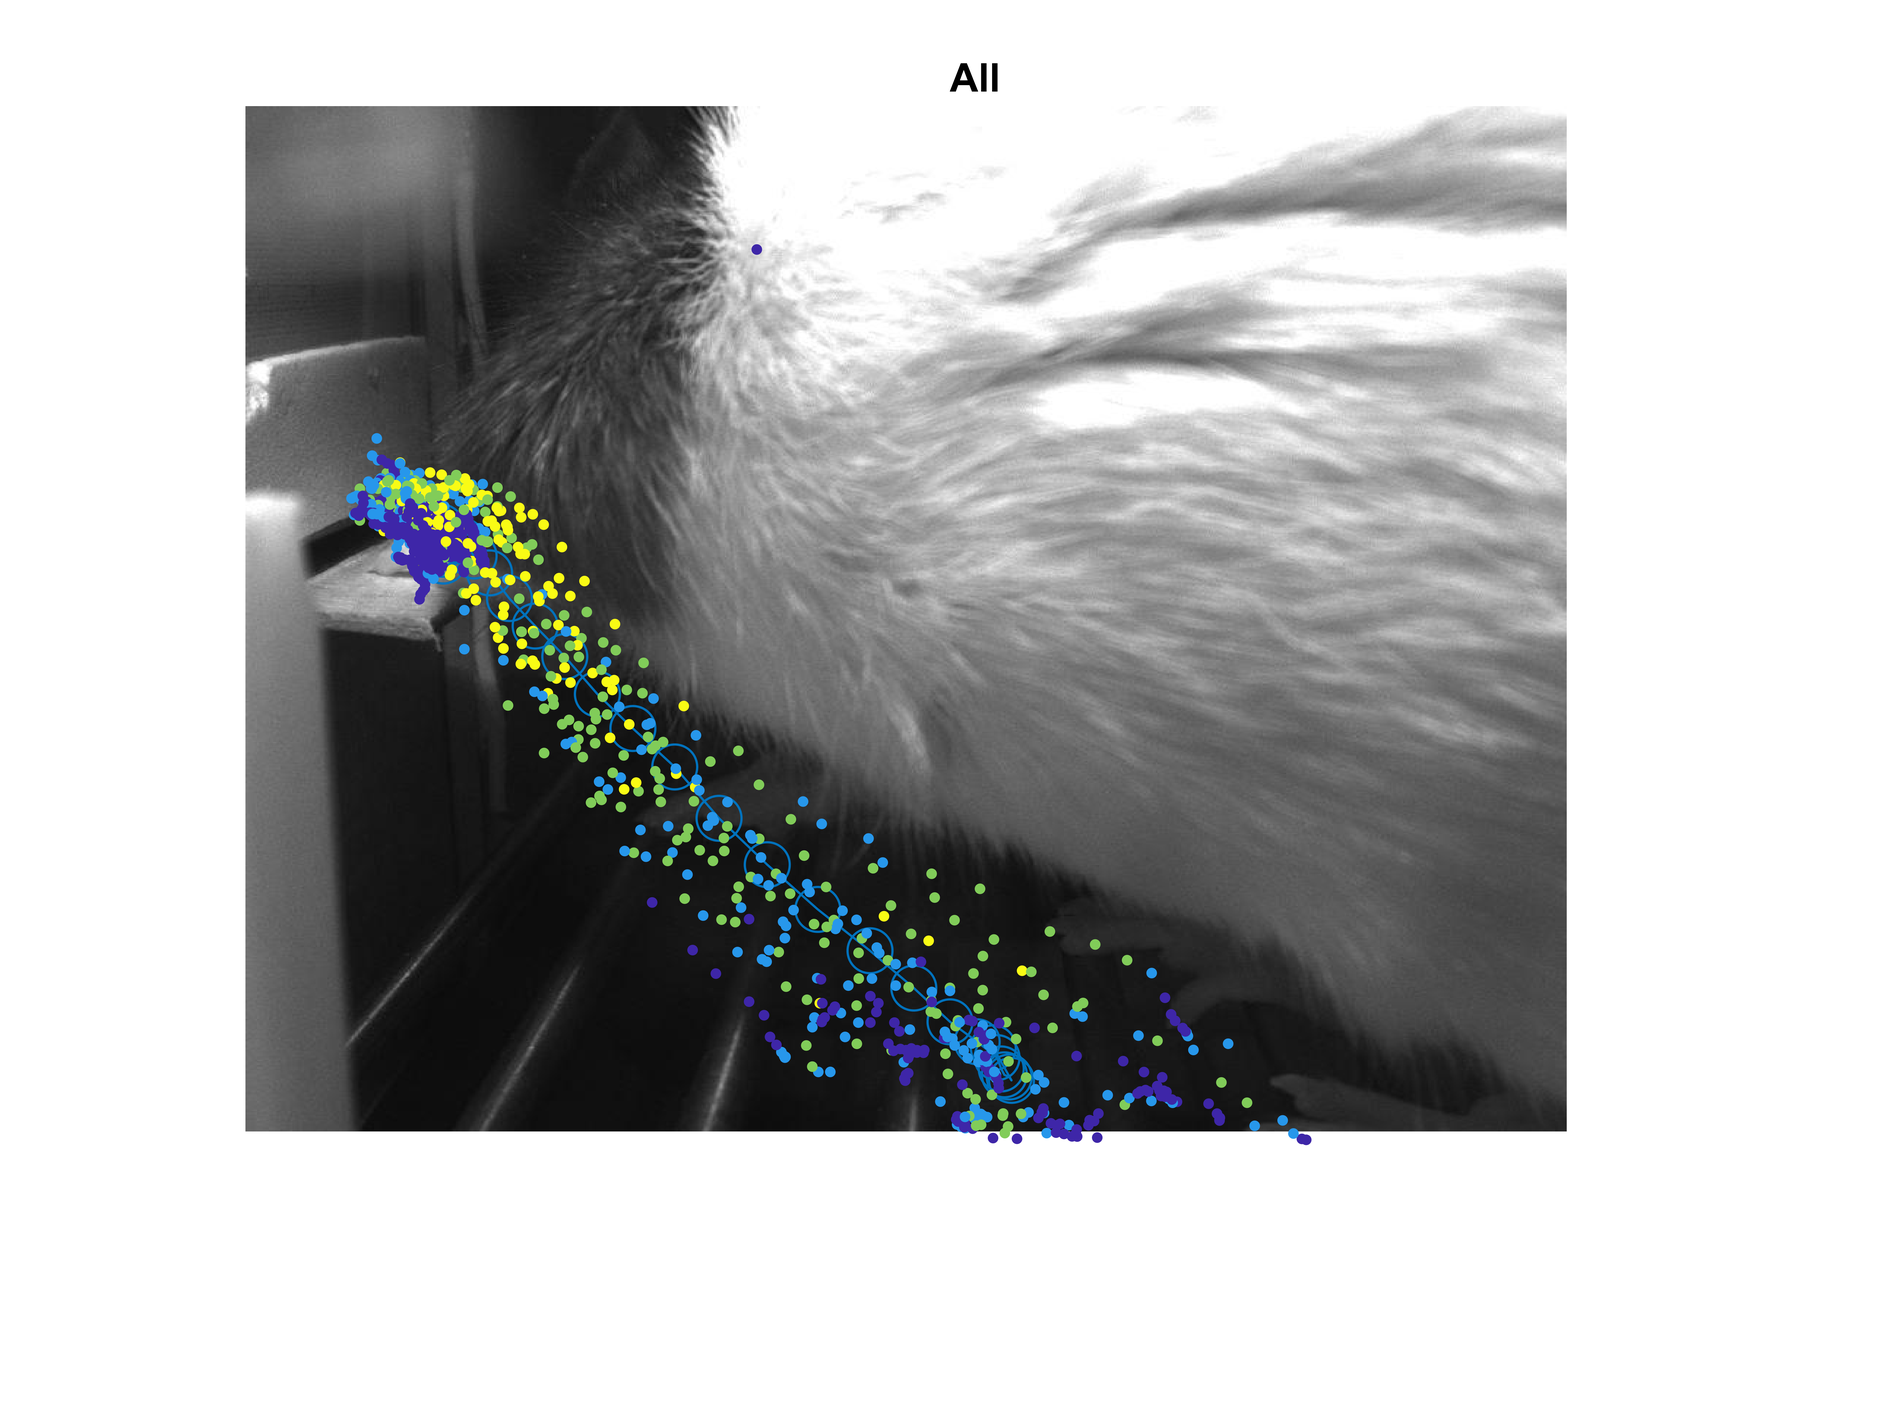
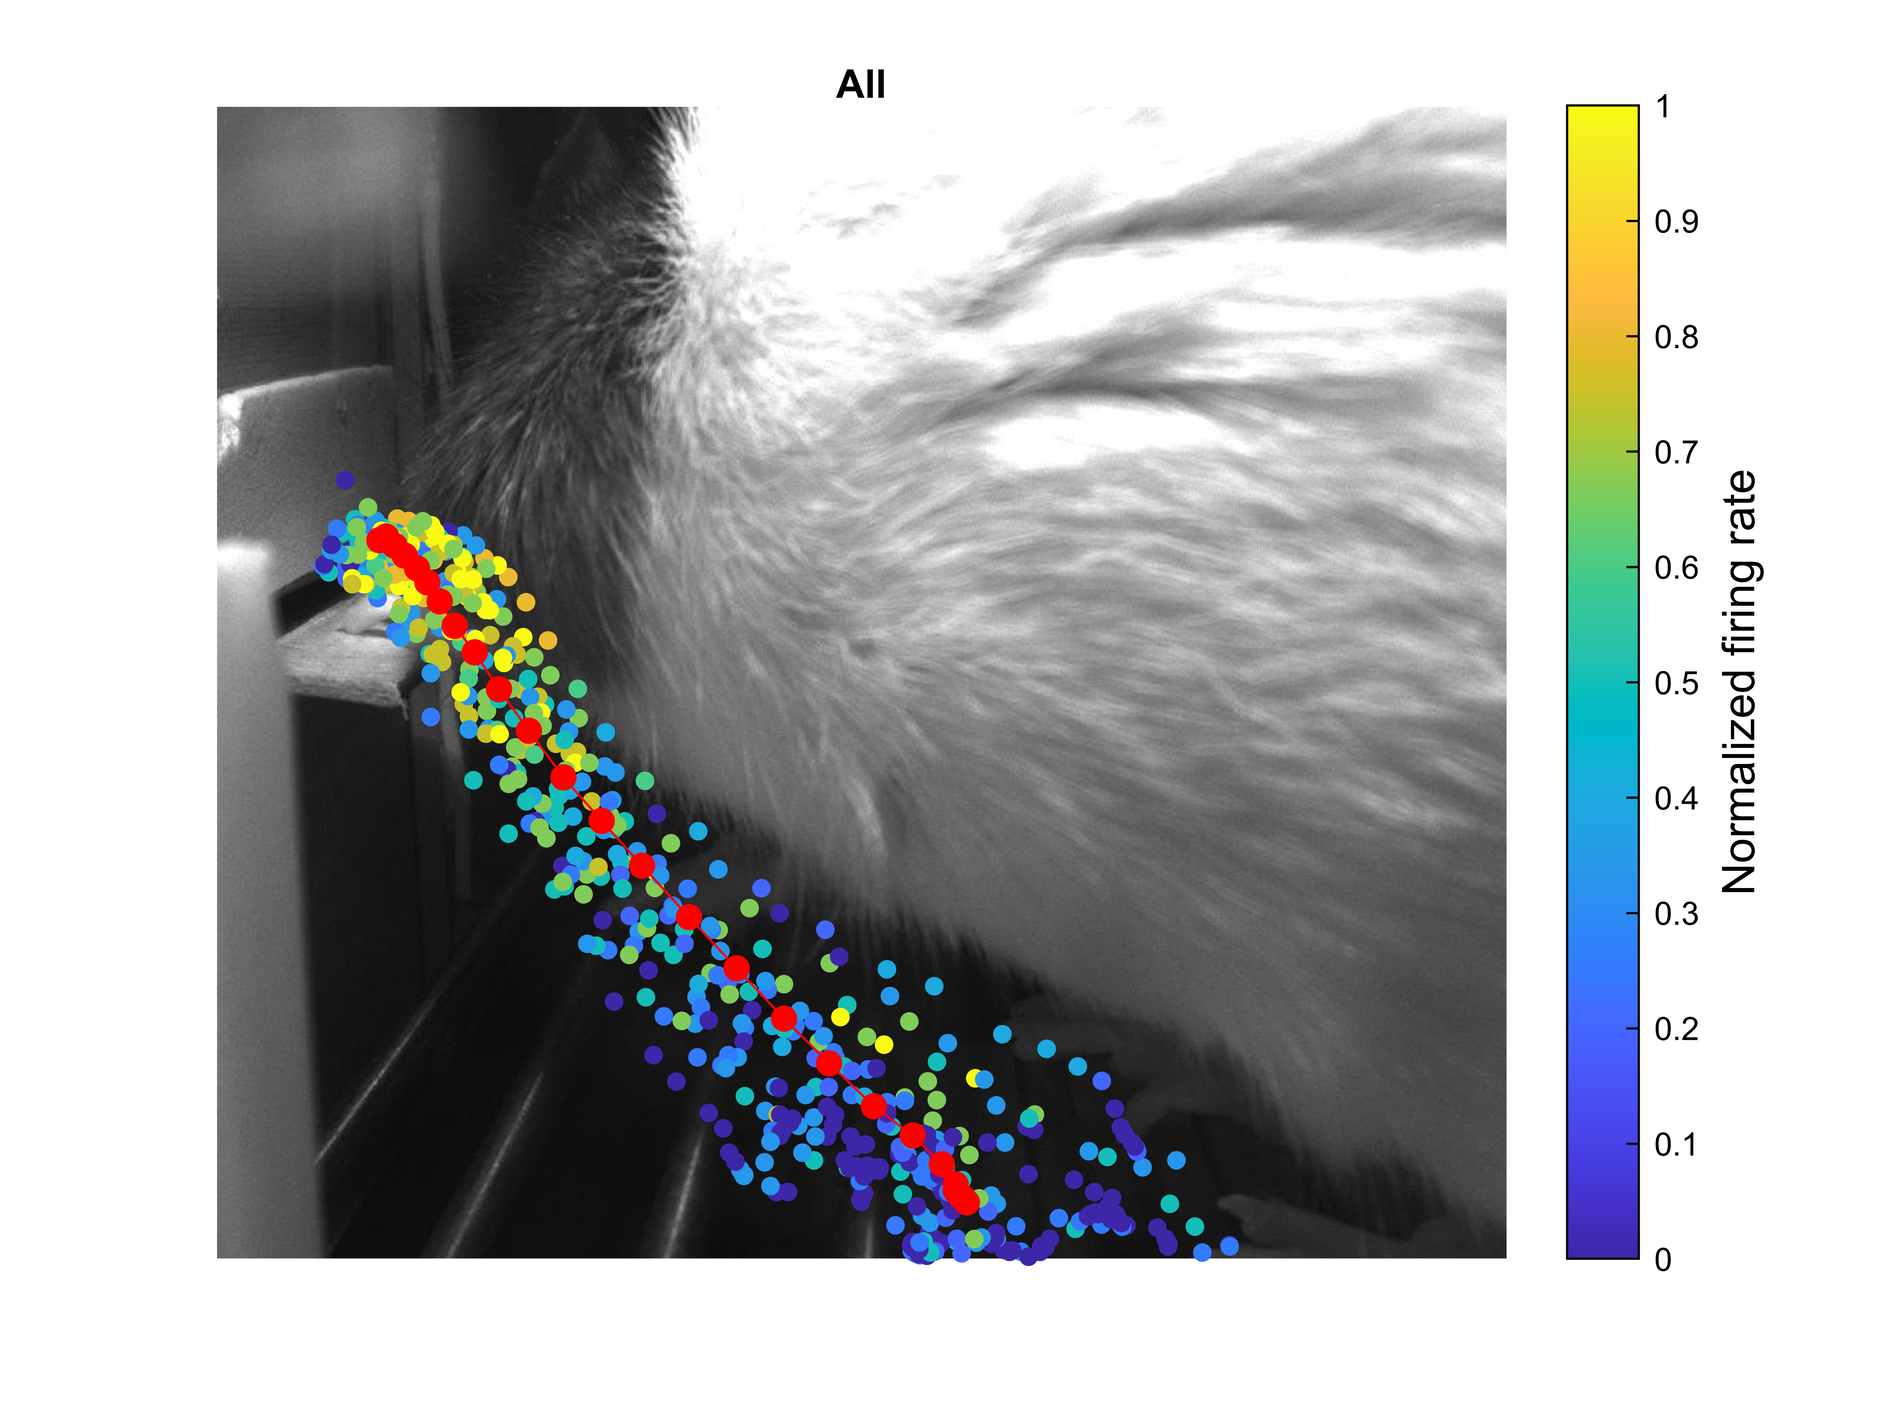
2022.6.14

diff --git a/CodesHY/Scripts/fig/TrajectoryCell/testTrajectoryCell.m b/CodesHY/Scripts/fig/TrajectoryCell/testTrajectoryCell.m
@@ -1,36 +1,29 @@
 %% Meta Info
-% r_path = 'D:\Ephys\ANMs\Urey\Videos\20211124_video\RTarrayAll.mat';
-r_path = 'D:\Ephys\ANMs\Russo\Sessions\20210820_video\RTarrayAll.mat';
-% load(r_path)
-
-% save_filename_bmp = './fig.bmp';
-save_filename_pdf = './GestureAnalysis.pdf';
-save_filename_png = './GestureAnalysis.png';
-save_filename_eps = 'C:\Users\jiumao\Desktop\figuresHY\GestureAnalysis.eps';
+r_path = 'D:\Ephys\ANMs\Urey\Videos\20211124_video\RTarrayAll.mat';
+% r_path = 'D:\Ephys\ANMs\Russo\Sessions\20210820_video\RTarrayAll.mat';
+load(r_path)
 save_resolution = 1200;
 
-% vid_top = VideoReader('D:\Ephys\ANMs\Urey\Videos\20211124_video\VideoFrames_top\RawVideo\Press007.avi');
-% bg_top = vid_top.read(-r.VideoInfos_top(1).t_pre/10);
-% vid_side = VideoReader('D:\Ephys\ANMs\Urey\Videos\20211124_video\VideoFrames_side\RawVideo\Press056.avi');
-% bg_side_traj1 = vid_side.read(-r.VideoInfos_top(1).t_pre/10);
-% vid_side = VideoReader('D:\Ephys\ANMs\Urey\Videos\20211124_video\VideoFrames_side\RawVideo\Press055.avi');
-% bg_side_traj2 = vid_side.read(-r.VideoInfos_top(1).t_pre/10);
-vid_side = VideoReader('D:\Ephys\ANMs\Russo\Sessions\20210820_video\VideoFrames_side\RawVideo\Press056.avi');
+vid_side = VideoReader('D:\Ephys\ANMs\Urey\Videos\20211124_video\VideoFrames_side\RawVideo\Press056.avi');
 bg_side_traj1 = vid_side.read(-r.VideoInfos_top(1).t_pre/10);
-vid_side = VideoReader('D:\Ephys\ANMs\Russo\Sessions\20210820_video\VideoFrames_side\RawVideo\Press055.avi');
+vid_side = VideoReader('D:\Ephys\ANMs\Urey\Videos\20211124_video\VideoFrames_side\RawVideo\Press055.avi');
 bg_side_traj2 = vid_side.read(-r.VideoInfos_top(1).t_pre/10);
+% vid_side = VideoReader('D:\Ephys\ANMs\Russo\Sessions\20210820_video\VideoFrames_side\RawVideo\Press056.avi');
+% bg_side_traj1 = vid_side.read(-r.VideoInfos_top(1).t_pre/10);
+% vid_side = VideoReader('D:\Ephys\ANMs\Russo\Sessions\20210820_video\VideoFrames_side\RawVideo\Press055.avi');
+% bg_side_traj2 = vid_side.read(-r.VideoInfos_top(1).t_pre/10);
 
 bodypart = 'left_paw';
 idx_bodypart = find(strcmp(r.VideoInfos_side(1).Tracking.BodyParts,bodypart));
 
-unit_num = 3;
+unit_num = 1;
 binwidth = 50;
 
 marker_size = 200;
 colors_num = 256;
 colors = parula(256);
 
-color_max_percentage = 0.95;
+color_max_percentage = 1.00;
 color_min_percentage = 0.00;
 %%
 h0 = figure('Renderer','opengl');
@@ -38,7 +31,8 @@ ax0 = axes(h0,'NextPlot','add');
 image(ax0,bg_side_traj2);
 set(ax0,'YDir','reverse','XLim',[0,size(bg_side_traj2,2)],'YLim',[0,size(bg_side_traj2,1)])
 title(ax0,'All');
-colorbar();
+c0 = colorbar();
+ylabel(c0,'Normalized firing rate','FontSize',10);
 ax0.XAxis.Visible = 'off';ax0.YAxis.Visible = 'off';
 
 % h1 = figure;
@@ -56,7 +50,7 @@ ax0.XAxis.Visible = 'off';ax0.YAxis.Visible = 'off';
 % title(ax2,'Low');
 
 idx_all = [r.VideoInfos_side.Index];
-press_idx = getIndexVideoInfos(r,'Hand','Left','LiftStartTimeLabeled','On');
+press_idx = getIndexVideoInfos(r,'Hand','Left','LiftStartTimeLabeled','On','Trajectory',2);
 vid_press_idx = findSeq(idx_all,press_idx);
 
 firing_rate_all_flattened = [];
@@ -81,7 +75,6 @@ for k = 1:length(vid_press_idx)
 end
 
 mean_traj = getMeanTrajectory(traj_all, round(mean(frame_num_all)));
-plot(ax0,mean_traj(1,:),mean_traj(2,:),'o-','MarkerSize',10)
 
 firing_rate_all_flattened = sort(firing_rate_all_flattened);
 firing_rate_max = firing_rate_all_flattened(floor(length(firing_rate_all_flattened)*color_max_percentage));
@@ -116,22 +109,32 @@ for k = 1:length(vid_press_idx)
 %     end
     
 end
-
+plot(ax0,mean_traj(1,:),mean_traj(2,:),'r.-','MarkerSize',20)
 %% Hypothesis 1: fire at a fixed duration from lift (same information as PETH)
 h_h1 = figure('Renderer','opengl');
-% ax_h1 = axes(h_h1);
-% params.pre = 500;
-% params.post = 2000;
-% params.binwidth = binwidth;
-% [psth, tpsth] = jpsth(r.Units.SpikeTimes(unit_num).timings,[r.VideoInfos_side(vid_press_idx).LiftStartTime]',params);
-% plot(ax_h1,tpsth,psth,'-')
+ax_h1 = axes(h_h1,'NextPlot','add','XLim',[0,size(bg_side_traj2,2)],'YLim',[0,size(bg_side_traj2,1)]);
+title(ax_h1,'PETH')
+image(ax_h1,bg_side_traj2);
+set(ax_h1,'YDir','reverse')
+ax_h1.XAxis.Visible = 'off';ax_h1.YAxis.Visible = 'off';
+c_h1 = colorbar(ax_h1);
+ylabel(c_h1,'Normalized firing rate','FontSize',10);
 
-ax_h1_2 = axes(h_h1,'NextPlot','add','XLim',[0,size(bg_side_traj2,2)],'YLim',[0,size(bg_side_traj2,1)]);
-title(ax_h1_2,'PETH')
-image(ax_h1_2,bg_side_traj2);
-set(ax_h1_2,'YDir','reverse')
-ax_h1_2.XAxis.Visible = 'off';ax_h1_2.YAxis.Visible = 'off';
-colorbar(ax_h1_2);
+for k = 1:length(vid_press_idx)
+    frame_num_temp = r.VideoInfos_side(vid_press_idx(k)).LiftStartFrameNum:round(-r.VideoInfos_side(vid_press_idx(k)).t_pre/10);
+    [~, i_maxy] = min(r.VideoInfos_side(vid_press_idx(k)).Tracking.Coordinates_y{idx_bodypart}(frame_num_temp));
+    frame_num = frame_num_temp(1:i_maxy);
+    
+    times_this = r.VideoInfos_side(vid_press_idx(k)).VideoFrameTime(frame_num);
+    firing_rate_this = getFiringRate(r.Units.SpikeTimes(unit_num).timings,times_this,binwidth);
+    firing_rate_this = (firing_rate_this-firing_rate_min)./(firing_rate_max-firing_rate_min);
+    firing_rate_this(firing_rate_this>1)=1;firing_rate_this(firing_rate_this<0)=0;
+    colors_this = colors(round(firing_rate_this*(colors_num-1)+1),:);
+    scatter(ax_h1,r.VideoInfos_side(vid_press_idx(k)).Tracking.Coordinates_x{idx_bodypart}(frame_num(firing_rate_this>firing_rate_threshold)),...
+        r.VideoInfos_side(vid_press_idx(k)).Tracking.Coordinates_y{idx_bodypart}(frame_num(firing_rate_this>firing_rate_threshold)),...
+        marker_size/2,...
+        colors_this(firing_rate_this>firing_rate_threshold,:),'.');   
+end
 
 firing_rate_all_mat = nan*zeros(length(firing_rate_all),round(mean(frame_num_all)));
 for k = 1:length(firing_rate_all)
@@ -143,7 +146,7 @@ for k = 1:length(firing_rate_all)
 end
 firing_rate_all_mat_mean = mean(firing_rate_all_mat,'omitnan');
 firing_rate_all_mat_mean = (firing_rate_all_mat_mean-firing_rate_min)./(firing_rate_max-firing_rate_min);
-scatter(ax_h1_2,mean_traj(1,:),mean_traj(2,:),500,colors(round(firing_rate_all_mat_mean*(colors_num-1)+1),:),'.');
+scatter(ax_h1,mean_traj(1,:),mean_traj(2,:),500,colors(round(firing_rate_all_mat_mean*(colors_num-1)+1),:),'.');
 
 disp(['Hypothesis 1: ',num2str(max(firing_rate_all_mat_mean))]);
 %% Hypothesis 2: fire at a certain position (heat map)
@@ -154,14 +157,16 @@ title(ax_h2,'Position')
 set(ax_h2,'YDir','reverse','XLim',[0,size(bg_side_traj2,2)],'YLim',[0,size(bg_side_traj2,1)])
 ax_h2.XAxis.Visible = 'off';ax_h2.YAxis.Visible = 'off';
 colorbar(ax_h2);
+c_h2 = colorbar(ax_h2);
+ylabel(c_h2,'Normalized firing rate','FontSize',10);
 
 gaussian_kernel = 25;
 
 h_h2_heatmap = figure('Renderer','opengl');
 ax_h2_heatmap = axes(h_h2_heatmap,'NextPlot','add');
-colorbar(ax_h2_heatmap);
 set(ax_h2_heatmap,'YDir','reverse')
 ax_h2_heatmap.XAxis.Visible = 'off';ax_h2_heatmap.YAxis.Visible = 'off';
+colorbar(ax_h2_heatmap,'Limits',[0,1]);
 x = 1:5:904;
 y = 1:5:800;
 [X,Y] = meshgrid(x,y);
@@ -171,15 +176,67 @@ for k = 1:length(x)
         z(k,j) = getGraphFiringRate(x(k),y(j),traj_all,firing_rate_all,gaussian_kernel);
     end
 end
+z = (z-firing_rate_min)./(firing_rate_max-firing_rate_min);
+z(z>1)=1;z(z<0)=0;
 imagesc(ax_h2_heatmap,z','XData',x,'YData',y);
+ax_h2_heatmap.CLim = [0,1];
+
+for k = 1:length(vid_press_idx)
+    frame_num_temp = r.VideoInfos_side(vid_press_idx(k)).LiftStartFrameNum:round(-r.VideoInfos_side(vid_press_idx(k)).t_pre/10);
+    [~, i_maxy] = min(r.VideoInfos_side(vid_press_idx(k)).Tracking.Coordinates_y{idx_bodypart}(frame_num_temp));
+    frame_num = frame_num_temp(1:i_maxy);
+    
+    times_this = r.VideoInfos_side(vid_press_idx(k)).VideoFrameTime(frame_num);
+    firing_rate_this = getFiringRate(r.Units.SpikeTimes(unit_num).timings,times_this,binwidth);
+    firing_rate_this = (firing_rate_this-firing_rate_min)./(firing_rate_max-firing_rate_min);
+    firing_rate_this(firing_rate_this>1)=1;firing_rate_this(firing_rate_this<0)=0;
+    colors_this = colors(round(firing_rate_this*(colors_num-1)+1),:);
+    scatter(ax_h2,r.VideoInfos_side(vid_press_idx(k)).Tracking.Coordinates_x{idx_bodypart}(frame_num(firing_rate_this>firing_rate_threshold)),...
+        r.VideoInfos_side(vid_press_idx(k)).Tracking.Coordinates_y{idx_bodypart}(frame_num(firing_rate_this>firing_rate_threshold)),...
+        marker_size/2,...
+        colors_this(firing_rate_this>firing_rate_threshold,:),'.');   
+end
 
 firing_rate_pos = zeros(1,round(mean(frame_num_all)));
+pos_length = zeros(1,round(mean(frame_num_all)));
+% for k = 1:round(mean(frame_num_all))
+%     firing_rate_pos(k) = getGraphFiringRate(mean_traj(1,k),mean_traj(2,k),traj_all,firing_rate_all,gaussian_kernel);
+% end
+
+firing_rate_pos_cell = cell(1,round(mean(frame_num_all)));
 for k = 1:round(mean(frame_num_all))
-    firing_rate_pos(k) = getGraphFiringRate(mean_traj(1,k),mean_traj(2,k),traj_all,firing_rate_all,gaussian_kernel);
+    firing_rate_pos_cell{k} = [];
 end
+for k = 1:length(traj_all)
+    for j = 1:length(traj_all{k})
+        [~,idx] = min(sum((mean_traj-traj_all{k}(:,j)).^2));
+        firing_rate_pos_cell{idx} = [firing_rate_pos_cell{idx},firing_rate_all{k}(j)];
+    end
+end
+for k = 1:round(mean(frame_num_all))
+    pos_length(k) = length(firing_rate_pos_cell{k});
+    if isempty(firing_rate_pos_cell{k})
+        firing_rate_pos(k) = firing_rate_pos(k-1);
+    else
+        firing_rate_pos(k) = mean(firing_rate_pos_cell{k});
+    end
+end
+
 firing_rate_pos = (firing_rate_pos-firing_rate_min)./(firing_rate_max-firing_rate_min);
 firing_rate_pos(firing_rate_pos>1)=1;firing_rate_pos(firing_rate_pos<0)=0;
-scatter(ax_h2,mean_traj(1,:),mean_traj(2,:),500,colors(round(firing_rate_pos*(colors_num-1)+1),:),'.');    
+scatter(ax_h2,mean_traj(1,:),mean_traj(2,:),500,colors(round(firing_rate_pos*(colors_num-1)+1),:),'.');   
+
+h_h2_2 = figure();
+ax_h2_2 = axes(h_h2_2,'NextPlot','add');
+yyaxis(ax_h2_2,'left');
+bar(ax_h2_2,pos_length);
+ylabel('Number of points')
+set(ax_h2_2,'ycolor','k');
+yyaxis(ax_h2_2,'right');
+plot(ax_h2_2,firing_rate_pos,'x-');
+ylabel('Normalized firing rate');
+set(ax_h2_2,'ycolor','k');
+
 disp(['Hypothesis 2: ',num2str(max(firing_rate_pos))]);
 
 % roi_pos = drawfreehand(ax_h2_heatmap);
@@ -211,36 +268,84 @@ disp(['Hypothesis 2: ',num2str(max(firing_rate_pos))]);
 h_h3 = figure('Renderer','opengl');
 ax_h3 = axes(h_h3,'NextPlot','add','XLim',[0,size(bg_side_traj2,2)],'YLim',[0,size(bg_side_traj2,1)]);
 colorbar(ax_h3);
+c_h3 = colorbar(ax_h3);
+ylabel(c_h3,'Normalized firing rate','FontSize',10);
 image(ax_h3,bg_side_traj2);
 title(ax_h3,'warped PETH')
 set(ax_h3,'YDir','reverse')
 ax_h3.XAxis.Visible = 'off';ax_h3.YAxis.Visible = 'off';
 
-% for k = 1:length(vid_press_idx)
-%     frame_num = r.VideoInfos_side(vid_press_idx(k)).LiftStartFrameNum:round(-r.VideoInfos_side(vid_press_idx(k)).t_pre/10);
-%     times_this = r.VideoInfos_side(vid_press_idx(k)).VideoFrameTime(frame_num);
-%     firing_rate_this = getFiringRate(r.Units.SpikeTimes(unit_num).timings,times_this,binwidth);
-%     firing_rate_this = (firing_rate_this-firing_rate_min)./(firing_rate_max-firing_rate_min);
-%     firing_rate_this(firing_rate_this>1)=1;firing_rate_this(firing_rate_this<0)=0;
-%     colors_this = colors(round(firing_rate_this*(colors_num-1)+1),:);
-%     scatter(ax_h3,r.VideoInfos_side(vid_press_idx(k)).Tracking.Coordinates_x{idx_bodypart}(frame_num),...
-%         r.VideoInfos_side(vid_press_idx(k)).Tracking.Coordinates_y{idx_bodypart}(frame_num),...
-%         marker_size,...
-%         colors_this,'.');
-% end
+for k = 1:length(vid_press_idx)
+    frame_num_temp = r.VideoInfos_side(vid_press_idx(k)).LiftStartFrameNum:round(-r.VideoInfos_side(vid_press_idx(k)).t_pre/10);
+    [~, i_maxy] = min(r.VideoInfos_side(vid_press_idx(k)).Tracking.Coordinates_y{idx_bodypart}(frame_num_temp));
+    frame_num = frame_num_temp(1:i_maxy);
+    
+    times_this = r.VideoInfos_side(vid_press_idx(k)).VideoFrameTime(frame_num);
+    firing_rate_this = getFiringRate(r.Units.SpikeTimes(unit_num).timings,times_this,binwidth);
+    firing_rate_this = (firing_rate_this-firing_rate_min)./(firing_rate_max-firing_rate_min);
+    firing_rate_this(firing_rate_this>1)=1;firing_rate_this(firing_rate_this<0)=0;
+    colors_this = colors(round(firing_rate_this*(colors_num-1)+1),:);
+    scatter(ax_h3,r.VideoInfos_side(vid_press_idx(k)).Tracking.Coordinates_x{idx_bodypart}(frame_num(firing_rate_this>firing_rate_threshold)),...
+        r.VideoInfos_side(vid_press_idx(k)).Tracking.Coordinates_y{idx_bodypart}(frame_num(firing_rate_this>firing_rate_threshold)),...
+        marker_size/2,...
+        colors_this(firing_rate_this>firing_rate_threshold,:),'.');   
+end
 
 [~, traj_all_resized, firing_rate_all_resized] = getMeanTrajectory(traj_all, round(mean(frame_num_all)), firing_rate_all);
 firing_rate_all_resized_mean = mean(firing_rate_all_resized,2);    
     
 firing_rate_all_resized_mean = (firing_rate_all_resized_mean-firing_rate_min)./(firing_rate_max-firing_rate_min);
+firing_rate_all_resized_mean(firing_rate_all_resized_mean>1)=1;firing_rate_all_resized_mean(firing_rate_all_resized_mean<0)=0;
 scatter(ax_h3,mean_traj(1,:),mean_traj(2,:),500,colors(round(firing_rate_all_resized_mean*(colors_num-1)+1),:),'.');    
 disp(['Hypothesis 3: ',num2str(max(firing_rate_all_resized_mean))]);
+%% Comparing
+[max_h1,idx_max_h1] = max(firing_rate_all_mat_mean);
+[max_h2,idx_max_h2] = max(firing_rate_pos);
+[max_h3,idx_max_h3] = max(firing_rate_all_resized_mean);
+max_h1_points = firing_rate_all_mat(:,idx_max_h1);
+max_h2_points = firing_rate_pos_cell{idx_max_h2};
+max_h3_points = firing_rate_all_resized(idx_max_h3,:);
+max_h1_points = (max_h1_points-firing_rate_min)./(firing_rate_max-firing_rate_min);
+max_h2_points = (max_h2_points-firing_rate_min)./(firing_rate_max-firing_rate_min);
+max_h3_points = (max_h3_points-firing_rate_min)./(firing_rate_max-firing_rate_min);
+
+h_h4 = figure('Renderer','opengl','Units','centimeters','Position',[10,10,18,5]);
+ax_h4_1 = axes(h_h4,'NextPlot','add','Units','centimeters','Position',[1,1,3,3]);
+bar([max_h1,max_h2,max_h3])
+title(ax_h4_1,'Max firing rate');
+ylim(ax_h4_1,[0,1]);
+ylabel(ax_h4_1,'Normalized firing rate')
+set(ax_h4_1,'XTick',[1,2,3],'XTickLabel',{'H1','H2','H3'})
+
+ax_h4_2 = axes(h_h4,'NextPlot','add','Units','centimeters','Position',[5,1,3,3]);
+histogram(ax_h4_2,max_h1_points,'BinWidth',0.1);
+xlim([0,1])
+title(ax_h4_2,'H1');
+
+ax_h4_3 = axes(h_h4,'NextPlot','add','Units','centimeters','Position',[9,1,3,3]);
+histogram(ax_h4_3,max_h2_points,'BinWidth',0.1);
+xlim([0,1])
+title(ax_h4_3,'H2');
+
+ax_h4_4 = axes(h_h4,'NextPlot','add','Units','centimeters','Position',[13,1,3,3]);
+histogram(ax_h4_4,max_h3_points,'BinWidth',0.1);
+xlim([0,1])
+title(ax_h4_4,'H3');
+
+ylim_max = max([ax_h4_2.YLim(2),ax_h4_3.YLim(2),ax_h4_4.YLim(2)]);
+ylim(ax_h4_2,[0,ylim_max]);ylim(ax_h4_3,[0,ylim_max]);ylim(ax_h4_4,[0,ylim_max]);
+
+% plot(ax_h4_2,1+0.5*rand(size(firing_rate_all_mat,1),1),firing_rate_all_mat(:,idx_max_h1),'b.')
+% plot(ax_h4_2,2+0.5*rand(length(firing_rate_pos_cell{idx_max_h2}),1),firing_rate_pos_cell{idx_max_h2},'b.')
+% plot(ax_h4_2,3+0.5*rand(1,size(firing_rate_all_resized,2)),firing_rate_all_resized(idx_max_h3,:),'b.')
 %% Save Figure
-% print(h0,'traj_all','-dpng',['-r',num2str(save_resolution)])
-% print(h_h1,'time','-dpng',['-r',num2str(save_resolution)])
-% print(h_h2,'position','-dpng',['-r',num2str(save_resolution)])
-% print(h_h2_heatmap,'position_heatmap','-dpng',['-r',num2str(save_resolution)])
-% print(h_h3,'warped_time','-dpng',['-r',num2str(save_resolution)])
+print(h0,'traj_all','-dpng',['-r',num2str(save_resolution)])
+print(h_h1,'time','-dpng',['-r',num2str(save_resolution)])
+print(h_h2,'position','-dpng',['-r',num2str(save_resolution)])
+print(h_h2_heatmap,'position_heatmap','-dpng',['-r',num2str(save_resolution)])
+print(h_h2_2,'position_points_number','-dpng',['-r',num2str(save_resolution)])
+print(h_h3,'warped_time','-dpng',['-r',num2str(save_resolution)])
+print(h_h4,'comparison','-dpng',['-r',num2str(save_resolution)])
 
 % print(h,save_filename_pdf,'-dpdf',['-r',num2str(save_resolution)])
 % print(h,save_filename_eps,'-depsc',['-r',num2str(save_resolution)])

diff --git a/CodesHY/PlotComparing.m b/CodesHY/PlotComparing.m
@@ -5,7 +5,7 @@ function PlotComparing(r, unit_num, comparing_type_indexes, comparing_type_names
     t_post = 500;
     binwidth_PSTH = 20;
     gaussian_kernel_width = 25;   
-    ntrial_raster = 15; 
+    ntrial_raster = NaN; 
     video_path = '.\VideoFrames_side\RawVideo\';
     save_fig = 'on';
     if nargin>=6
@@ -31,6 +31,13 @@ function PlotComparing(r, unit_num, comparing_type_indexes, comparing_type_names
                     errordlg('unknown argument')
             end
         end
+    end
+    if isnan(ntrial_raster)
+        type_length = zeros(1,length(comparing_type_indexes));
+        for k = 1:length(comparing_type_indexes)
+            type_length(k) = length(comparing_type_indexes{k});
+        end
+        ntrial_raster = min(type_length);
     end
 
     if isempty(example_indexes)

diff --git a/CodesHY/getFiringRate.m b/CodesHY/getFiringRate.m
@@ -8,5 +8,10 @@ function firing_rate = getFiringRate(spike_times, times, binwidth)
         spike_num = sum(spike_times>=times(k)-binwidth/2 & spike_times<=times(k)+binwidth/2);
         firing_rate(k) = spike_num./binwidth;
     end
+    
+    firing_rate = minmax(firing_rate);
+function out = minmax(x)
+    out = (x-min(x))./max(x);
+end
 end
 

diff --git a/CodesHY/TrackingAnalysis/scripts/trackingAnalysis.m b/CodesHY/TrackingAnalysis/scripts/trackingAnalysis.m
@@ -1,6 +1,7 @@
 %% Plot all trajectories
 % set the parameters below
 load RTarrayAll.mat
+% vid=VideoReader('./VideoFrames_top/RawVideo/Press010.avi');bg = vid.read(1);imwrite(bg,'bg.png')
 analysis_mode = 'both'; % pre / post / both
 bodypart = 'right_ear';
 bg_path = 'bg.png';
